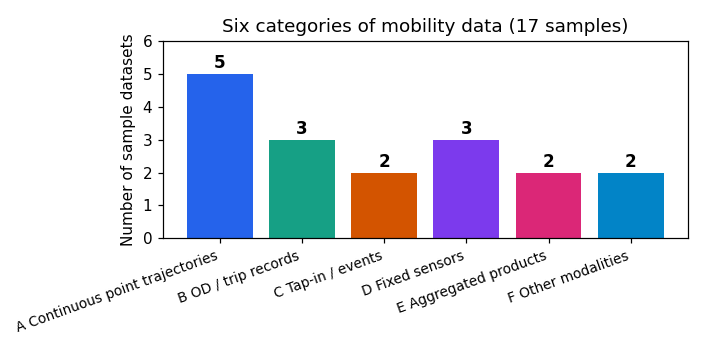
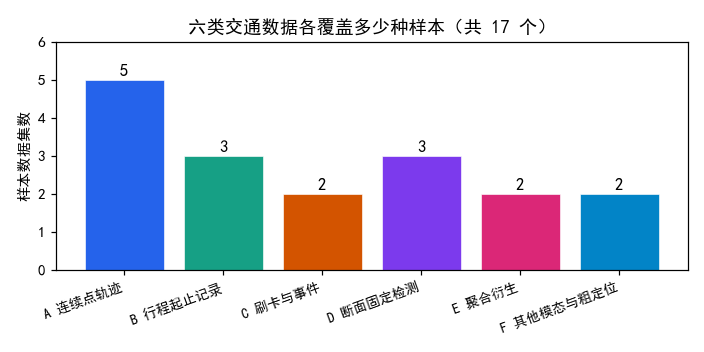
fix: 修复 taxonomy 图表中文乱码 + 数值塌缩
- 加 CJK 字体配置 (SimHei/Microsoft YaHei) + axes.unicode_minus=False
- 采样/精度谱改线性 (matplotlib barh+log 塌缩 bug，log(0)=-inf)
- 修复 SAMPLING_S/SPATIAL_M 查表键后缀不一致 (.csv) → 全部用 1
- 图表标签/标题全中文化，与站点风格统一
- 此坑已写入 ~/.workbuddy/MEMORY.md

diff --git a/scripts/build_taxonomy_page.py b/scripts/build_taxonomy_page.py
@@ -15,6 +15,10 @@ matplotlib.use("Agg")
 import matplotlib.pyplot as plt
 from matplotlib.patches import Patch
 
+# 中文字体配置（Win 自带 SimHei/微软雅黑；不设则中文乱码为方块）
+plt.rcParams['font.sans-serif'] = ['SimHei', 'Microsoft YaHei']
+plt.rcParams['axes.unicode_minus'] = False
+
 ROOT = r"C:\Users\wade\Documents\taxi"
 SIM = os.path.join(ROOT, "data", "sim", "modes")
 IMG = os.path.join(ROOT, "assets", "img")
@@ -69,51 +73,62 @@ def read_rows(path, n=6):
 # ---------- 1. 图表：分类覆盖 ----------
 counts = {c: sum(1 for m in manifest if m["cat"] == c) for c in CAT_ORDER}
 fig, ax = plt.subplots(figsize=(6.4, 3.2))
-xs = [f"{c} {CATS[c][1]}" for c in CAT_ORDER]
+xs = [f"{c} {CATS[c][0]}" for c in CAT_ORDER]
 ys = [counts[c] for c in CAT_ORDER]
 cols = ["#2563eb", "#16a085", "#d35400", "#7c3aed", "#db2777", "#0284c7"]
-bars = ax.bar(xs, ys, color=cols)
+bars = ax.bar(xs, ys, color=cols, edgecolor="white", linewidth=0.4)
 for b, v in zip(bars, ys):
     ax.text(b.get_x()+b.get_width()/2, v+0.05, str(v), ha="center", va="bottom", fontsize=11, fontweight="bold")
-ax.set_ylabel("Number of sample datasets")
-ax.set_title("Six categories of mobility data (17 samples)")
+ax.set_ylabel("样本数据集数")
+ax.set_title("六类交通数据各覆盖多少种样本（共 17 个）")
 ax.set_ylim(0, max(ys)+1)
 plt.xticks(rotation=20, ha="right", fontsize=9)
 fig.tight_layout(); fig.savefig(os.path.join(IMG, "tax_cat_coverage.png"), dpi=110); plt.close(fig)
 
-# ---------- 2. 图表：采样间隔谱（对数） ----------
-items = sorted(manifest, key=lambda m: SAMPLING_S.get(m["file"], 1))
-fig, ax = plt.subplots(figsize=(7.2, 6.0))
+# ---------- 2. 图表：采样间隔谱（线性；log+barh 在 matplotlib 会塌缩） ----------
+def k(file):  # manifest 的 file 带 .csv 后缀，去掉再查表
+    return file[:-4] if file.endswith(".csv") else file
+items = sorted(manifest, key=lambda m: SAMPLING_S.get(k(m["file"]), 1))
+fig, ax = plt.subplots(figsize=(7.6, 6.0))
 labels = [m["title"] for m in items]
-vals = [SAMPLING_S.get(m["file"], 1) for m in items]
+vals = [SAMPLING_S.get(k(m["file"]), 1) for m in items]
 colors = [CATS[m["cat"]][3] for m in items]
-ax.barh(range(len(items)), vals, color=colors)
+bars = ax.barh(range(len(items)), vals, color=colors, edgecolor="white", linewidth=0.4)
 ax.set_yticks(range(len(items))); ax.set_yticklabels(labels, fontsize=9)
-ax.set_xscale("log")
-ax.set_xlabel("Nominal sampling interval (seconds, log scale)")
-ax.set_title("Temporal resolution spectrum")
+ax.set_xlabel("名义采样间隔（秒，线性）")
+ax.set_title("时间采样间隔谱：采样越粗，能做的分析越受限")
 ax.invert_yaxis()
-for i, v in enumerate(vals):
-    ax.text(v*1.1, i, f"{v}s", va="center", fontsize=8, color="#444")
-legend = [Patch(facecolor=CATS[c][3], label=f"{c} {CATS[c][1]}") for c in CAT_ORDER]
+# 数值标签：放在条形右端外侧
+xmax = max(vals)
+ax.set_xlim(0, xmax * 1.18)
+for bar, v in zip(bars, vals):
+    label = f"{v}s" if v < 60 else (f"{v//60}min" if v < 3600 else f"{v//3600}h")
+    ax.text(bar.get_width() + xmax * 0.012, bar.get_y() + bar.get_height() / 2,
+            label, va="center", fontsize=8.5, color="#444")
+legend = [Patch(facecolor=CATS[c][3], label=f"{c} {CATS[c][0]}") for c in CAT_ORDER]
 ax.legend(handles=legend, fontsize=8, loc="lower right")
+ax.grid(axis="x", alpha=0.25)
 fig.tight_layout(); fig.savefig(os.path.join(IMG, "tax_sampling.png"), dpi=110); plt.close(fig)
 
-# ---------- 3. 图表：空间精度谱（对数） ----------
-items2 = sorted(manifest, key=lambda m: SPATIAL_M.get(m["file"], 1))
-fig, ax = plt.subplots(figsize=(7.2, 6.0))
+# ---------- 3. 图表：空间精度谱（线性） ----------
+items2 = sorted(manifest, key=lambda m: SPATIAL_M.get(k(m["file"]), 1))
+fig, ax = plt.subplots(figsize=(7.6, 6.0))
 labels2 = [m["title"] for m in items2]
-vals2 = [max(SPATIAL_M.get(m["file"], 1), 1) for m in items2]
+vals2 = [max(SPATIAL_M.get(k(m["file"]), 1), 1) for m in items2]
 colors2 = [CATS[m["cat"]][3] for m in items2]
-ax.barh(range(len(items2)), vals2, color=colors2)
+bars2 = ax.barh(range(len(items2)), vals2, color=colors2, edgecolor="white", linewidth=0.4)
 ax.set_yticks(range(len(items2))); ax.set_yticklabels(labels2, fontsize=9)
-ax.set_xscale("log")
-ax.set_xlabel("Spatial resolution (meters, log scale; fixed sensors ~1m point)")
-ax.set_title("Spatial precision spectrum")
+ax.set_xlabel("名义空间精度（米，线性；D 类固定检测≈1m 即点位）")
+ax.set_title("空间精度谱：精度越粗，越看不到个体路径")
 ax.invert_yaxis()
-for i, v in enumerate(vals2):
-    ax.text(v*1.1, i, f"{v}m", va="center", fontsize=8, color="#444")
+xmax2 = max(vals2)
+ax.set_xlim(0, xmax2 * 1.20)
+for bar, v in zip(bars2, vals2):
+    label = f"{v}m（点位）" if v <= 1 else (f"{v}m（站点）" if v == 300 else f"{v}m")
+    ax.text(bar.get_width() + xmax2 * 0.012, bar.get_y() + bar.get_height() / 2,
+            label, va="center", fontsize=8.5, color="#444")
 ax.legend(handles=legend, fontsize=8, loc="lower right")
+ax.grid(axis="x", alpha=0.25)
 fig.tight_layout(); fig.savefig(os.path.join(IMG, "tax_spatial.png"), dpi=110); plt.close(fig)
 
 # ---------- SVG：一图看懂「同一次出行，六类数据各留下什么痕迹」 ----------
